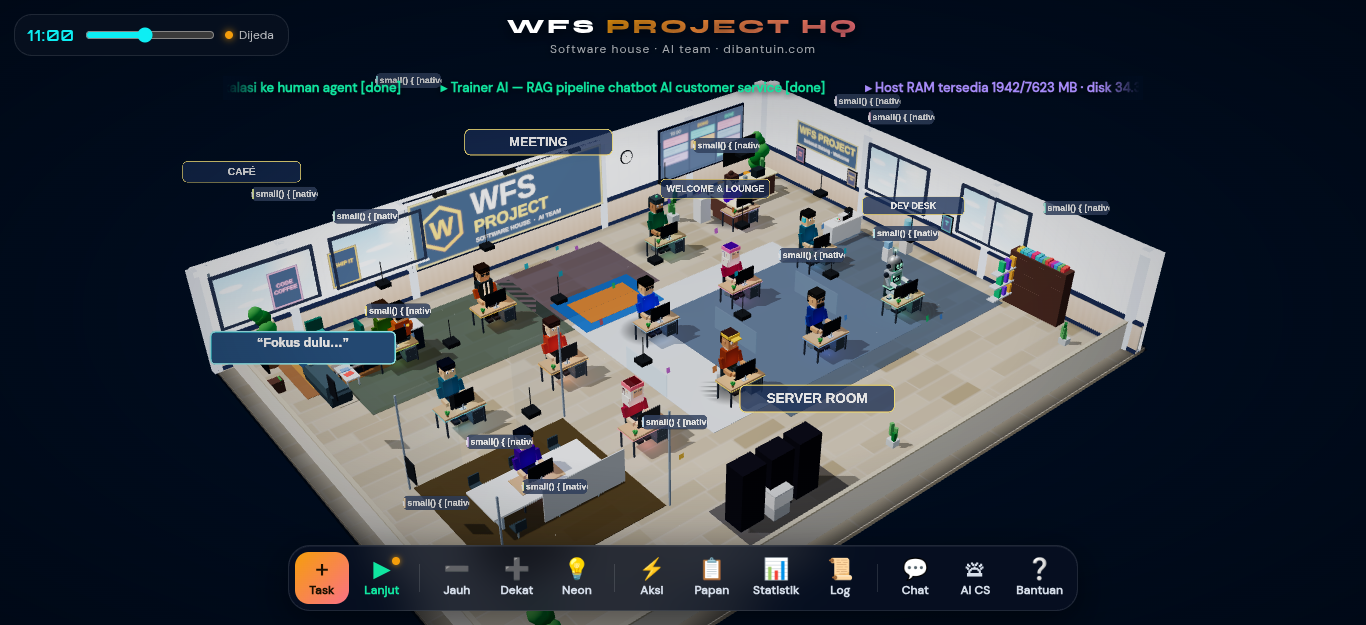
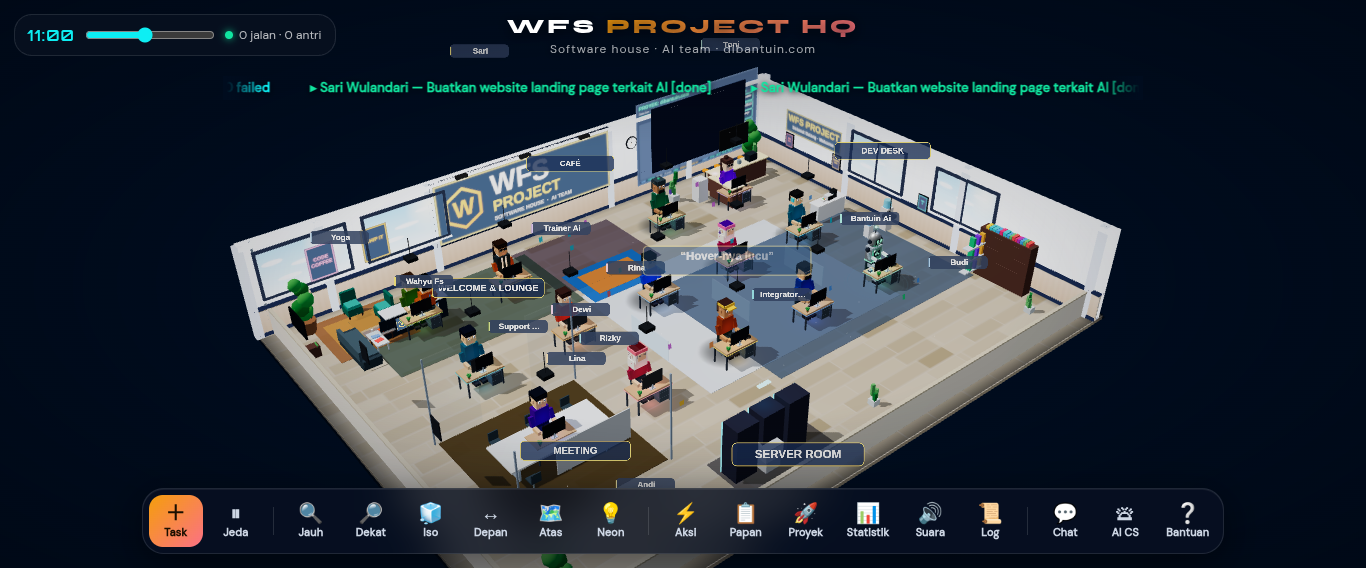
visual/bug: LED server room kini benar-benar berkedip — sebelumnya tertanam di dalam body rak (z=.32 vs muka z=.35), tak pernah terlihat & tak ada animasi

diff --git a/src/scene/OfficeScene.js b/src/scene/OfficeScene.js
@@ -1198,8 +1198,9 @@ const serverRack=(x,z)=>{
     unit.position.set(0,.25+u*.23,0);g.add(unit);
     // LED strip: 3 lampu kecil random warna
     [0x00E676,0xFFC107,0x2979FF].forEach((lc,li)=>{
-      const led=new THREE.Mesh(new THREE.BoxGeometry(.05,.04,.02),new THREE.MeshBasicMaterial({color:lc,transparent:true}));
-      led.position.set(-.22+li*.18,.28+u*.23,.32);g.add(led);
+      const led=new THREE.Mesh(new THREE.BoxGeometry(.08,.06,.03),new THREE.MeshBasicMaterial({color:lc,transparent:true}));
+      led.position.set(-.22+li*.18,.28+u*.23,.375); // di depan muka body (z=.35) — sebelumnya .32 tertanam di dalam body, tak terlihat
+      g.add(led);
       __leds.push({m:led,base:1,ph:Math.random()*Math.PI*2,sp:2+Math.random()*6,on:.3+Math.random()*.7});
     });
   }

diff --git a/DEV_LOG.md b/DEV_LOG.md
@@ -941,7 +941,16 @@
 - Bukti: build OK (precache 35, 1528.6 KiB), vitest 24/24; deploy ~/wfs-hq OK; close-up CDP → rak gelap terbaca jelas dgn strip cyan di tepi, area lit (tidak hitam), 0 z-fighting/artefak; full shot 469 KB (>500KB rule: 469 ≈ OK, scene hidup — frames 2→5); e2e_err: DOM True, 17 btns, 14 label, canvas 1366x568, errs 0.
 - Sisa backlog: verifikasi subjektif kualitas suara (butuh telinga manusia); label zona ticker menutupi tombol MEETING (minor); typo "Djeda" (sengaja? perlu konfirmasi user).
 
-## 2026-10-20 05:40 WIB — visual: label zona tak lagi menutupi MEETING / bocor ke lane ticker; tumpukan CAFÉ↔LOUNGE beres
+## 2026-10-20 06:14 WIB — visual/bug: LED server room kini BENAR-BENAR berkedip (sebelumnya tertanam di dalam body rak, tak pernah terlihat)
+
+- Masalah: DEV_LOG lama & komentar kode mengklaim "3 rak server dengan LED berkedip", tapi LED statis & tak terlihat — audit vision 2 screenshot (full + close-up CDP kamera radius 8 ke tgt server room) mengonfirmasi muka rak polos tanpa LED.
+- Akar masalah (geometri): LED diposisikan z=.32 sementara muka body rak z=.35 → LED tertanam DI DALAM body, ter-occlude permanen. Juga tak ada animasi sama sekali (komentar menyesatkan).
+- Implementasi: (1) LED digeser ke z=.375 (di depan muka body), ukuran .05x.04x.02→.08x.06x.03 agar terbaca; (2) animasi blink baru di loop render: 72 LED dgn fase & laju acak (sp 2–8 rad/s, threshold on .3–1.0), opacity 1↔.12 — pola aktivitas server acak, ikut berhenti saat tab hidden (loop render sudah berhenti).
+- Bukti iterasi close-up CDP (ledshot.sh: __cam sph radius 8, theta .15, tgt (2.8,1.4,-7.2)): v1 (z=.32) → 0 LED terlihat; v2 (z=.375) → vision mengonfirmasi ±12–16 titik LED menyala (hijau dominan, amber, 1 biru) kontras tinggi di 3 rak, sisanya "mati" (opacity .12) — menambah realisme; pixel-scan frame: green 51 / amber 43 / blue 10 sampel.
+- Bukti teknis: build OK (precache 35, 1528.85 KiB), vitest 24/24; deploy ~/wfs-hq OK; e2e_err: DOM True, 17 btns, 14 label, canvas 1366x568, frames 2→5, errs 0; full shot scene hidup 467 KB; close-up 471 KB.
+- Sisa backlog: verifikasi subjektif kualitas suara (butuh telinga manusia); kontak tepi Sari↔CAFÉ (kosmetik); label zona menutup sebagian rak pada close-up (label anti-overlap bekerja di default view).
+
+## 2026-10-20 05:40 WIB — visual: label zona tak lagi menutup MEETING / bocor ke lane ticker; tumpukan CAFÉ↔LOUNGE beres
 - Masalah (dari audit backlog): (1) label zona MEETING tertutup penuh label nama agent (hanya "…ETING" terbaca); (2) CAFÉ menumpuk sebagian WELCOME & LOUNGE; (3) DEV DESK hanya gap ~15–25px dari lane ticker.
 - Implementasi (OfficeScene.js anti-overlap label): margin atas zona diperluas TOP+48px (sebelumnya TOP-24); dorongan agent-vs-zona diperkuat (offY 1.9→2.4, offX 1.0→1.2, zona ikut geser 0.5x→0.8x); cap offset zona dinaikkan (dyz −6..34→−10..52, dxz ±24→±36); cap offset agent dy 34→46, dx ±12→±16.
 - Bukti iterasi screenshot (shot.sh 1366x768, 3x iterasi): v1 — ticker aman (gap WELCOME & LOUNGE ±38px), CAFÉ↔LOUNGE terpisah ~120px, tapi MEETING masih tertutup "Lina"; v2 — MEETING utuh, CAFÉ bersih, sisa Sari↔LOUNGE; v3 (final) — kelima zona (WELCOME & LOUNGE, CAFÉ, MEETING, DEV DESK, SERVER ROOM) terbaca utuh tanpa tertutup label agent; sisa kontak hanya Sari menempel tepi CAFÉ (kosmetik) + label-vs-objek 3D latar (banner dinding, TV) yang tidak mengganggu keterbacaan.
